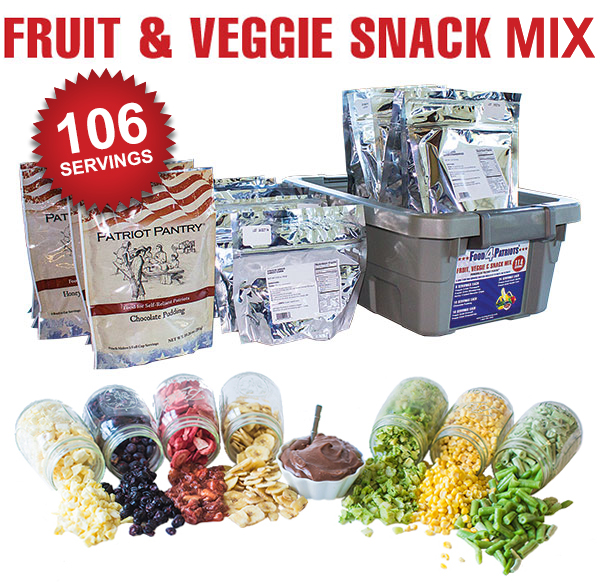
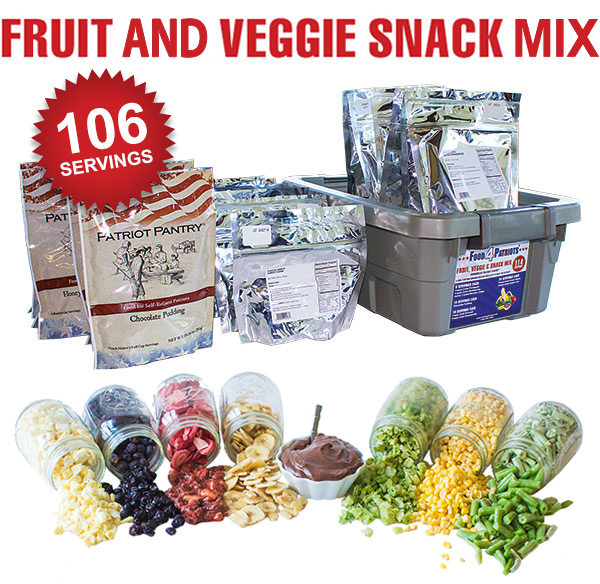
FFP-726 Frontend: Fruit/Veggie/Snack Front End Offer FP-600 Layout Checkout Page for F&V Funnel

diff --git a/letter/fruitveggie/content.php b/letter/fruitveggie/content.php
@@ -1,6 +1,6 @@
 <div class="container oto-width">
 	<div>
-		<h1 class="darkRed text-center">“Supercharge” Your Survival Food Stockpile With Food4Patriots Fruit& Veggie Snack Mix!</h1>
+		<h1 class="darkRed text-center">“Supercharge” Your Survival Food Stockpile With Food4Patriots Fruit & Veggie Snack Mix!</h1>
 	</div>
 	<p>Dear Patriot,</p>
 	<p><strong>Fruits and veggies are vital to your overall survival food plan.</strong></p>
@@ -29,8 +29,8 @@
 	<p>How are you supposed to survive on rotting produce?</p>
 	<p>Well, you’re not.</p>
 
-	<h2 class="darkRed text-center">Get All the Plant Based Nutrition You Need With Food4Patriots Fruit and Veggie Snack Mix – Wholesome, Delicious, and Good for 25 Years</h2>
-	<img class="img-responsive center-block margin-tb-20" style="width: 100%" src="/media/images/f4p/f4p-fvs-kit-tote-01.jpg" alt="">
+	<h2 class="darkRed text-center">Get All the Plant Based Nutrition You Need With Food4Patriots Fruit, and Veggie Snack Mix – Wholesome, Delicious, and Good for 25 Years</h2>
+	<img class="img-responsive center-block margin-tb-20" style="width: 100%" src="/media/images/f4p/f4p-fvs-kit-tote-02.jpg" alt="">
 	<p>Our Fruit & Veggie Snack Mix comes in the same re-sealable, airtight, space-age Mylar pouches and tucked inside a stackable tote you’ve come to expect with our other survival food kits.</p>
 	<p>Keep all your individual packs in the tote, or take them on the go – it’s your choice.</p>
 	<p>Compact and discreet, you can store them anywhere – your garage, basement, RV, cabin, bug-out bag, or even your car!</p>
@@ -72,7 +72,7 @@
 			</div>
 		</div>
 	</div>
-	<p><strong>With our Fruit & Veggie Snack Mix, you can make all kinds of tasty creations like:</strong></p>
+	<p><strong>With our Fruit, & Veggie Snack Mix, you can make all kinds of tasty creations like:</strong></p>
 	<ul>
 		<li>Strawberry Oatmeal</li>
 		<li>Healthy Trail Mix</li>
@@ -90,17 +90,17 @@
 	<p>It’s no secret that fruits and vegetables are essential to any diet.</p>
 	<p>And when a natural disaster happens, there will not be opportunities to go to the nearest store and pick up some fruits and vegetables.</p>
 	<p>Well, you know me well enough by now that I’ve make it my mission to help get as many Food4Patriots kits as I can into the hands of my fellow patriots and, because I have been blessed with the ability to buy in bulk, I’m able to cut out the middle man and give these kits away for pennies on the dollar of what they’d normally cost.</p>
-	<p>And for a limited time, you can get our Fruit & Veggie Snack Pack for the <strong>special promotional price of just $97.00!</strong></p>
+	<p>And for a limited time, you can get our Fruit, Veggie and Snack Mix for the <strong>special promotional price of just $97.00!</strong></p>
 	<p><strong>That’s Just $1.18 Per Serving!</strong></p>
 	<p>Normally, this kit would cost around $147, but for a limited time, I want to make it available to anyone that wants to ensure their family has enough vitamin enriched foods in their stockpile.</p>
 	<p>Be sure to jump on this opportunity folks…food prices are going through the roof right now, and I’m struggling to keep these kits in stock.</p>
-	<p>Get your Fruit and Veggie Snack Pack at this special introductory price while it is still available…</strong></p>
+	<p>Get your Fruit, Veggie and Snack Mix at this special introductory price while it is still available…</strong></p>
 	<p>I’m not sure how long we will be able to offer this important kit for $97 or $1.18 per serving.</p>
 	<p><strong>Click the <strong>"Add To Cart"</strong> button below now, and I'll rush your kit to your front door right away!</strong></p>
 
 
 	<div class="margin-tb-50 center-block text-center">
-		<img class="img-responsive center-block margin-tb-20" style="width: 100%" src="/media/images/f4p/f4p-fvs-01.jpg" alt="">
+		<img class="img-responsive center-block margin-tb-20" style="width: 100%" src="/media/images/f4p/f4p-fvs-kit-tote-03.jpg" alt="">
 		<a href="<?php echo $offerUrl; ?>"><img src="/assets/images/buttons/btn-orange-add-cart-fruitveggie.jpg" class="img-responsive center-block" alt="Add To Cart"><strong>Add to Cart - $97</strong></a>
 	</div>
 
@@ -109,14 +109,14 @@
 	<h2 class="darkRed text-center">You Are 100% Protected By My Outrageous Double Guarantee.</h2>
 	<div class="outLineBoxDarkBlue">
 		<p><img src="/media/images/misc/seal-guarantee-satisfaction.jpg" alt="Guarantee #1" class="pull-left img-responsive media margin-t-20">
-		<h3>Guarantee #1:</h3> This is a 100% money back guarantee. No questions asked. If for any reason, you’re not satisfied with your Fruit & Veggie Snack Pack, just return it within 60 days of purchase and I’ll refund 100% of your purchase price. If you try it and decide it’s not as delicious and nutritious as I promised, you can have your money back </p>
+		<h3>Guarantee #1:</h3> This is a 100% money back guarantee. No questions asked. If for any reason, you’re not satisfied with your Fruit, Veggie and Snack Mix, just return it within 60 days of purchase and I’ll refund 100% of your purchase price. If you try it and decide it’s not as delicious and nutritious as I promised, you can have your money back </p>
 		<div class="clearfix"></div>
 	</div>
 
 	<div class="outLineBoxDarkBlue">
 		<p><img src="/media/images/misc/seal-guarantee-money.jpg" alt="Guarantee #2" class="pull-left img-responsive media margin-t-20">
-		<h3>Guarantee #2:</h3> This is an unheard of 300% money back guarantee. It’s in addition to guarantee #1. If you open any of your Fruit and Veggie Snack Pack anytime <strong>in the next 25 years</strong> and find that your food has spoiled or gone bad, you can return your entire Fruit and Veggie Snack Pack and I will <strong>triple</strong> your money back!</p>
-		<p>That’s how confident I am that this food will remain just as delicious and nutritious for the next 25 years as it is on the day you buy it. Some of my friends said I was crazy to offer this double guarantee, but to be honest I’m not really worried about it, because I am so confident you’re going to see the value in your Fruit and Veggie Snack Pack as soon as you have it in your hands.</p>
+		<h3>Guarantee #2:</h3> This is an unheard of 300% money back guarantee. It’s in addition to guarantee #1. If you open any of your Fruit, Veggie and Snack Mix anytime <strong>in the next 25 years</strong> and find that your food has spoiled or gone bad, you can return your entire Fruit, Veggie and Snack Mix and I will <strong>triple</strong> your money back!</p>
+		<p>That’s how confident I am that this food will remain just as delicious and nutritious for the next 25 years as it is on the day you buy it. Some of my friends said I was crazy to offer this double guarantee, but to be honest I’m not really worried about it, because I am so confident you’re going to see the value in your Fruit, Veggie and Snack Mix as soon as you have it in your hands.</p>
 	</div>
 
 	<h2 class="darkRed text-center">Here’s What Patriots Just Like You Have To Say About Our Fruit & Veggie Snack Mix…</h2>
